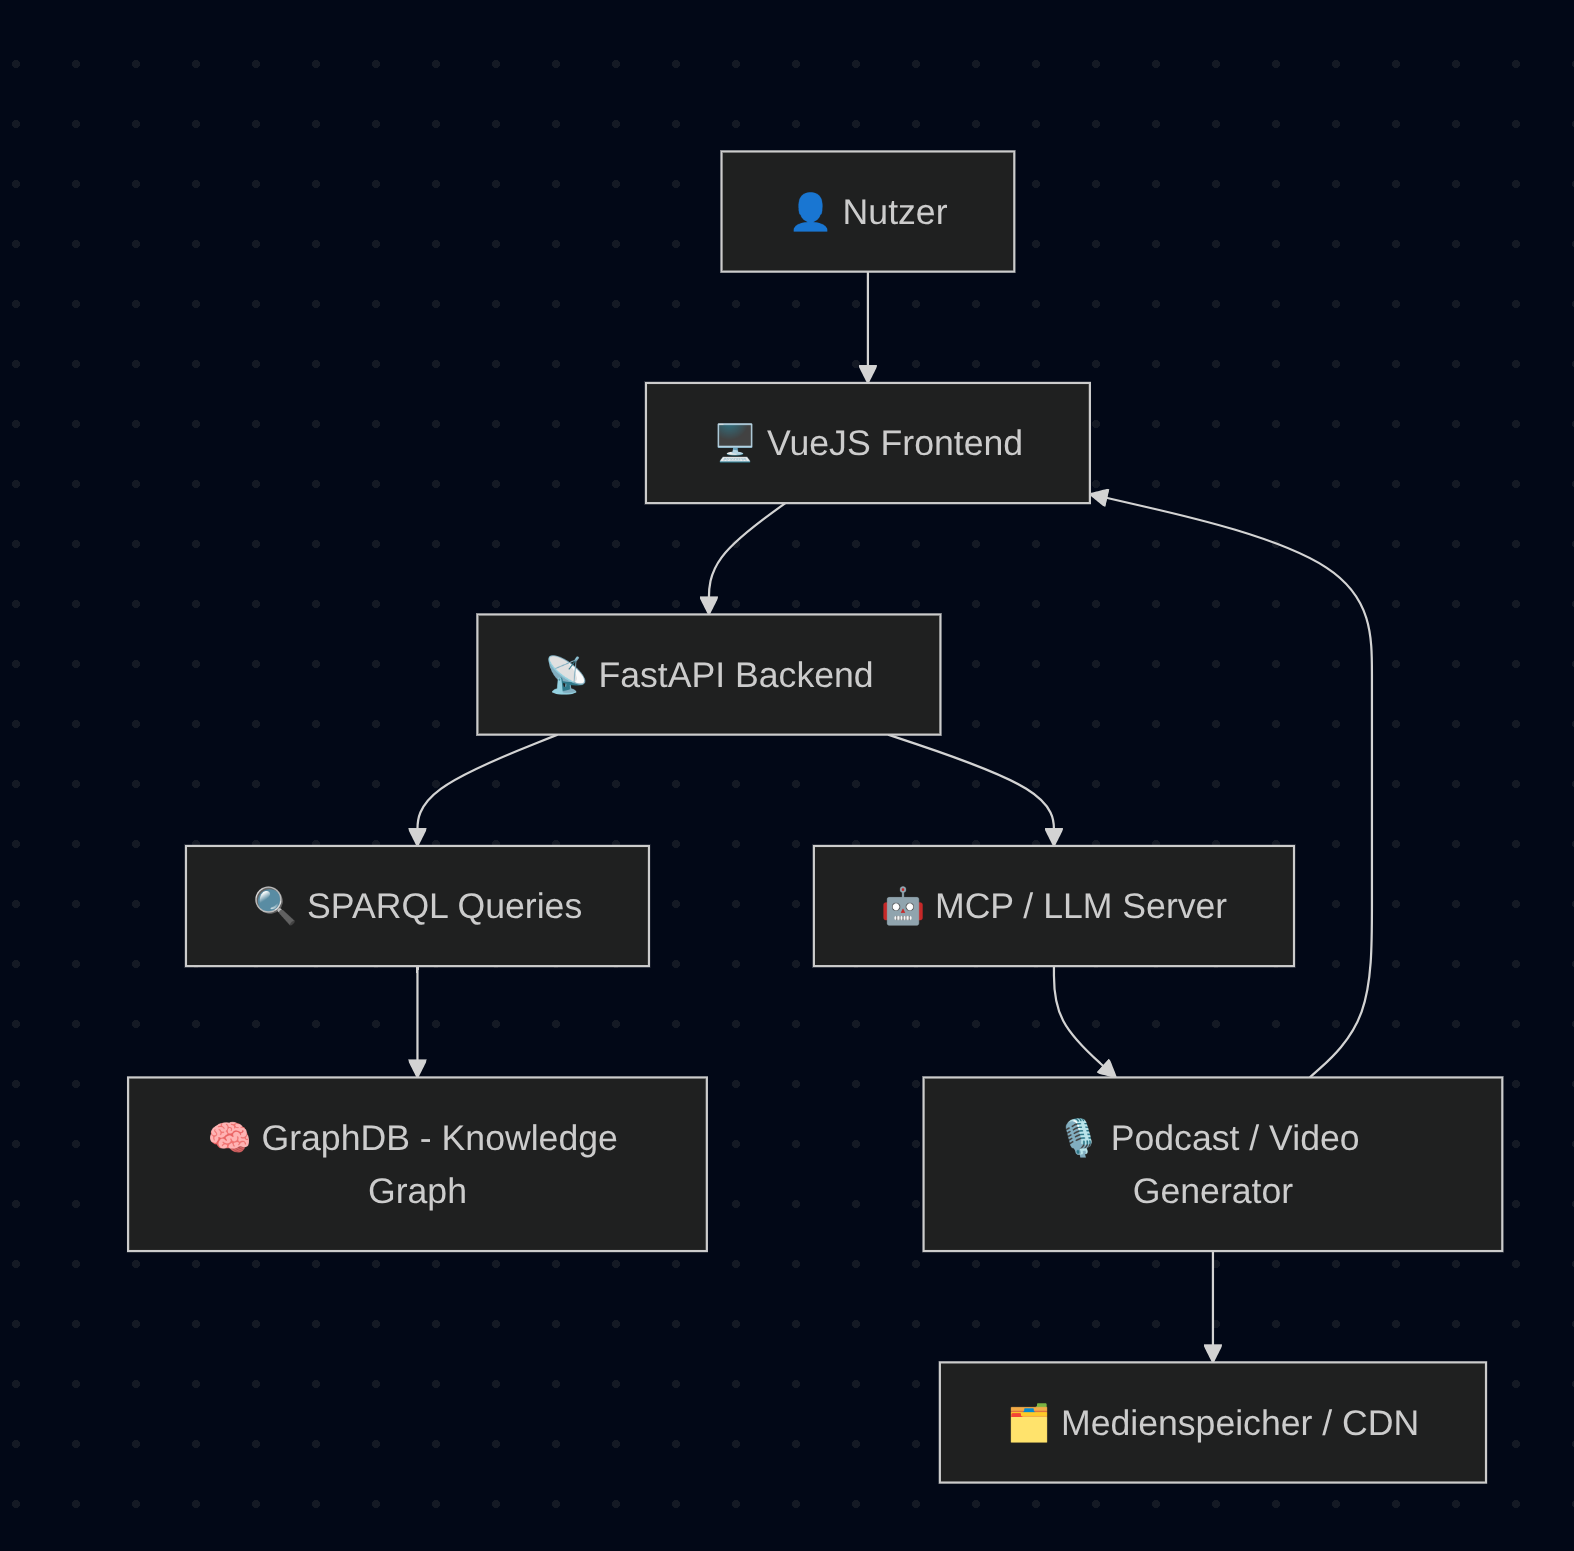
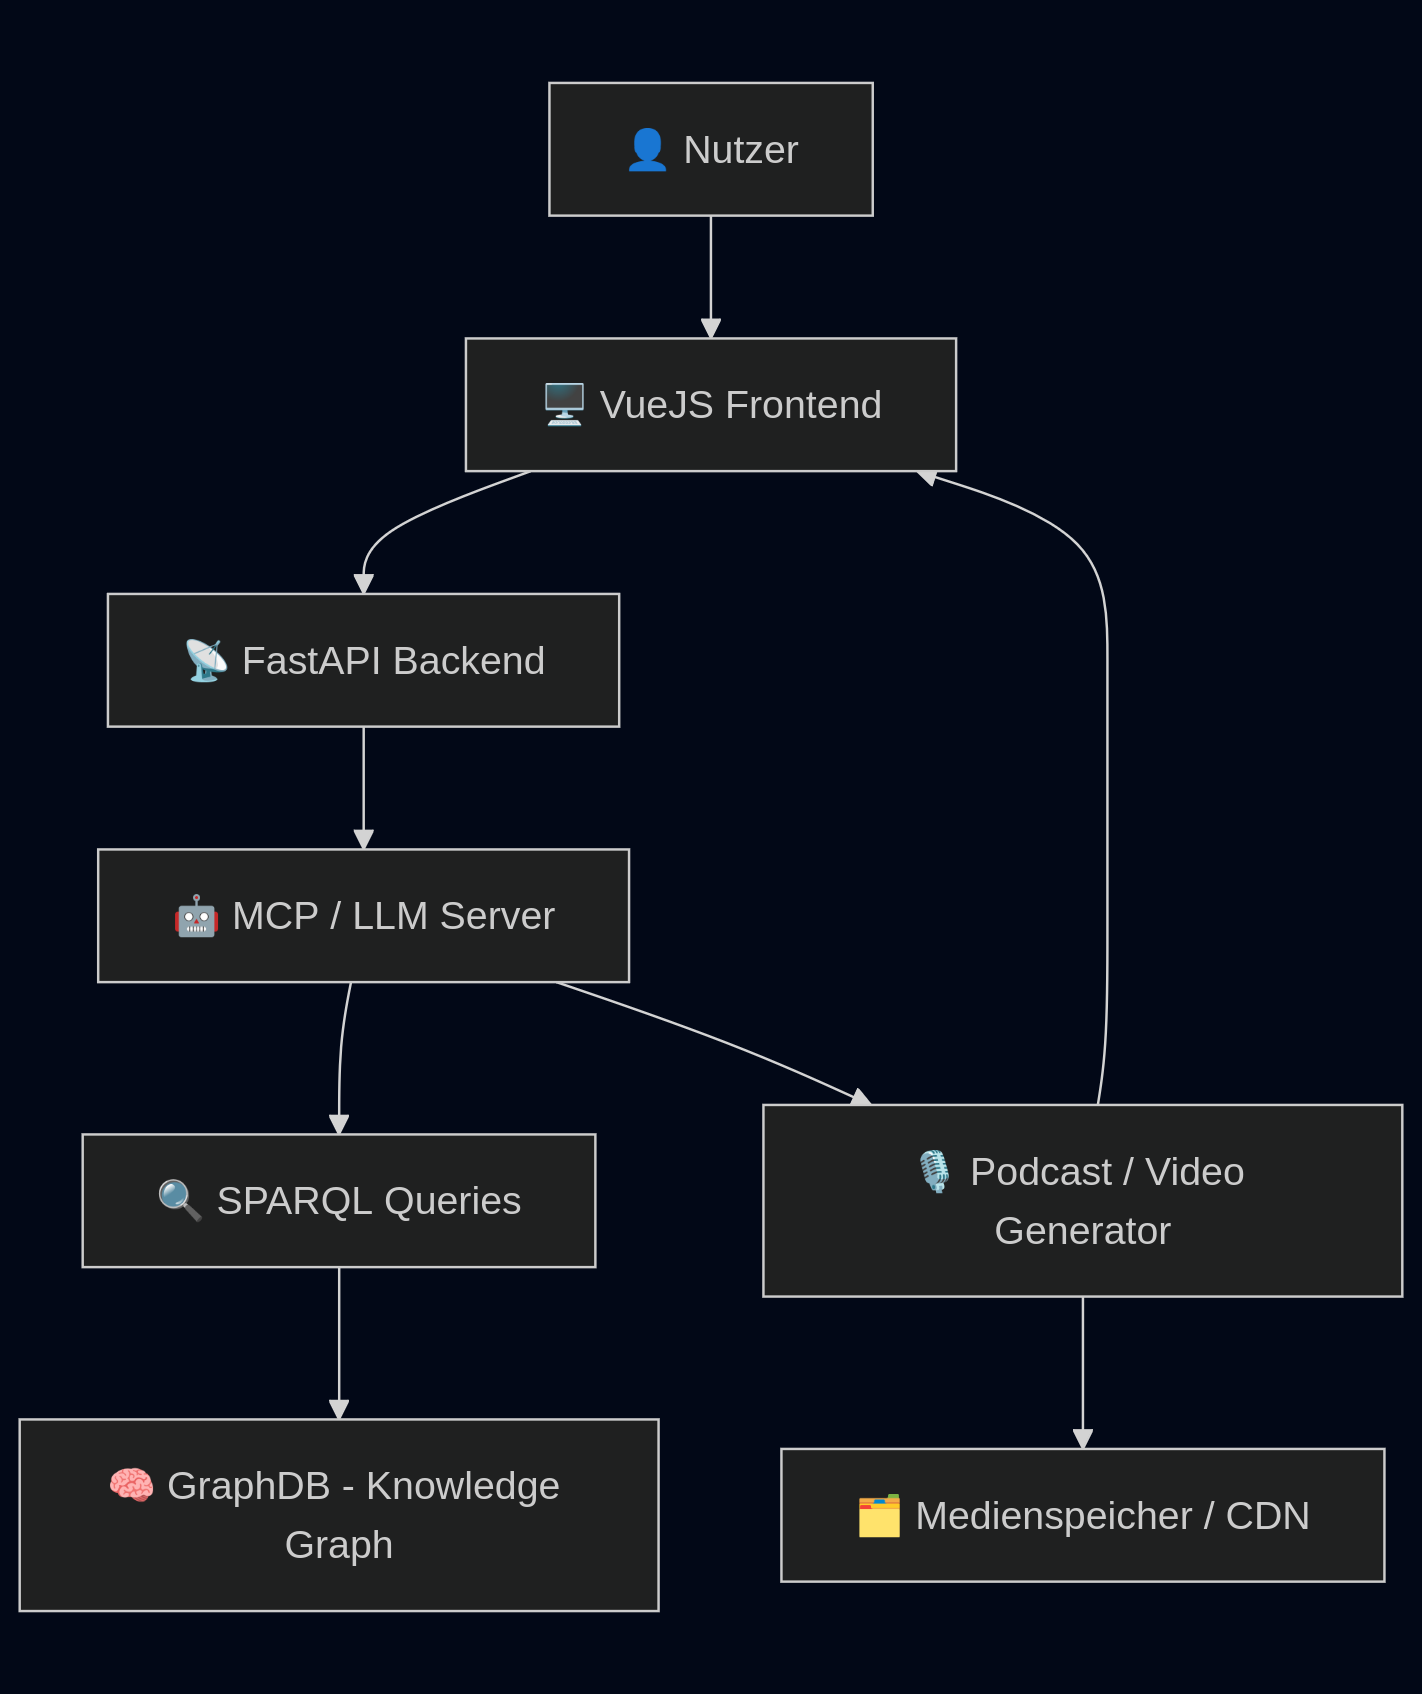
Update tech docs

diff --git a/techJuryDocu.md b/techJuryDocu.md
@@ -16,6 +16,7 @@
 - Backend in Python mit FastAPI für eine leichtgewichtige, asynchrone und skalierbare API
 - Verwendung eines Graphdatenbank-Ansatzes (GraphDB + SPARQL) zur Modellierung und Analyse von Finanzwissen
 - Einsatz von Generativer KI (LLMs + Audio-/Video-Generation) zur kreativen Darstellung von Nutzerfinanzen
+- Nutzung von mehreren MCP Servern um dem LLM Zugriff auf die Finanz- und weiterführende Daten zu geben
 - Starke UX-Fokussierung: z.B. automatische Scroll-Effekte, animierte Ladezustände, Splashscreens
 
 ### Technischer Aufbau
@@ -47,7 +48,7 @@ Technisch besonders cool:
 - Einfache Architektur, aber sehr expressive UX durch Motion und Feeling
 
 ### Abgrenzung / Offene Punkte
-❌ Keine Authentifizierung oder Sicherheitslogik: Fokus liegt aktuell auf Demo & Konzept  
-❌ Keine Live-Bankdaten-Anbindung – es wird mit vorbereiteten (aber realitätsnahen) Transaktionsdaten gearbeitet  
-❌ Kein Fine-Tuning der AI – stattdessen Prompt Engineering über Middleware  
+❌ Keine Authentifizierung oder Sicherheitslogik: Fokus liegt aktuell auf Demo & Konzept
+❌ Keine Live-Bankdaten-Anbindung – es wird mit vorbereiteten (aber realitätsnahen) Transaktionsdaten gearbeitet
+❌ Kein Fine-Tuning der AI – stattdessen Prompt Engineering über Middleware
 Fokus liegt auf Prototyping, User Experience & Storytelling. Sicherheit und Datenschutz erfordern gesonderte Betrachtung und Zeitbudget.
